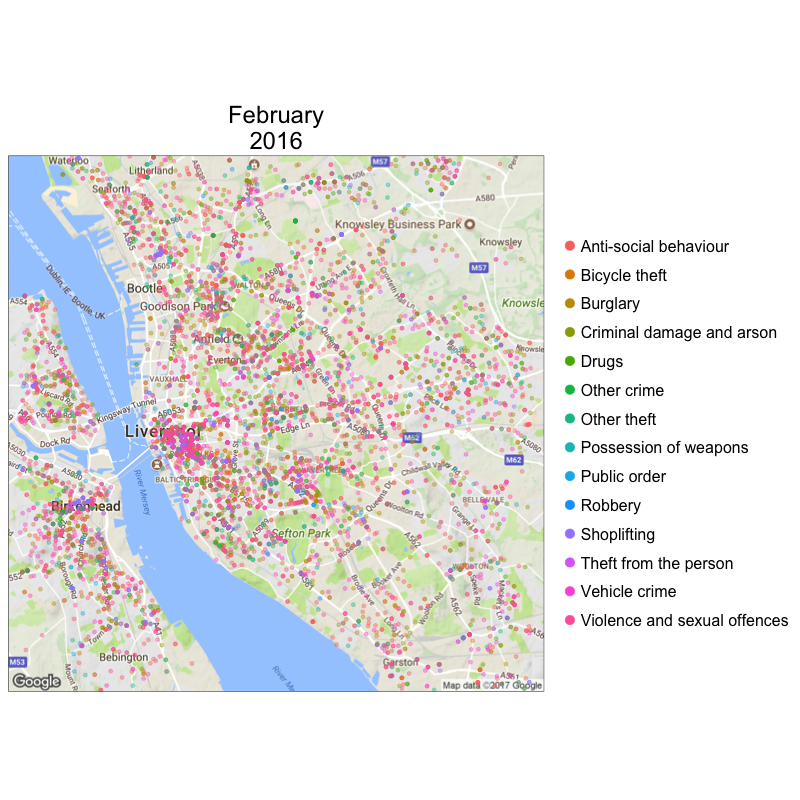
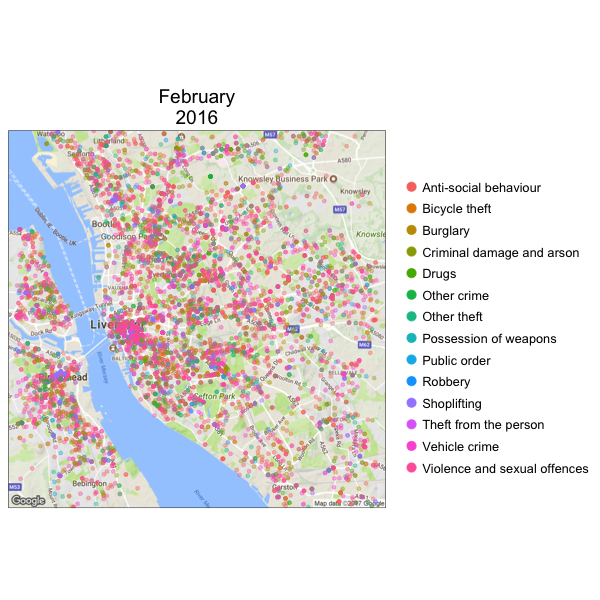
editing...

diff --git a/assets/animations/js/anim-embed.js b/assets/animations/js/anim-embed.js
@@ -3,7 +3,7 @@
 	
 	$('#anim-embed').scianimator({
 	    'images': ['animations//anim-embed1.png', 'animations//anim-embed2.png', 'animations//anim-embed3.png', 'animations//anim-embed4.png', 'animations//anim-embed5.png', 'animations//anim-embed6.png', 'animations//anim-embed7.png', 'animations//anim-embed8.png', 'animations//anim-embed9.png', 'animations//anim-embed10.png', 'animations//anim-embed11.png', 'animations//anim-embed12.png'],
-	    'width': 800,
+	    'width': 600,
 	    'delay': 1000,
 	    'loopMode': 'loop'
 	});

diff --git a/_posts/2017-07-04-Simple-ggplot-animation-tutorial.md b/_posts/2017-07-04-Simple-ggplot-animation-tutorial.md
@@ -9,7 +9,7 @@ This example uses crime data from [data.police.uk](https://data.police.uk/), con
 
 The finished animation looks like this:
 
-<iframe src="annezj.github.io/assets/animations/anim-embed.html" width="950" height="950">Animation &quot;anim-embed&quot;</iframe>
+<iframe src="https://annezj.github.io/assets/animations/anim-embed.html" width="500" height="500">Animation &quot;anim-embed&quot;</iframe>
 
 First, load the packages and data. The data is in the format of one row per crime, and I've filtered it to include only the columns of interest for this exercise.  
 
